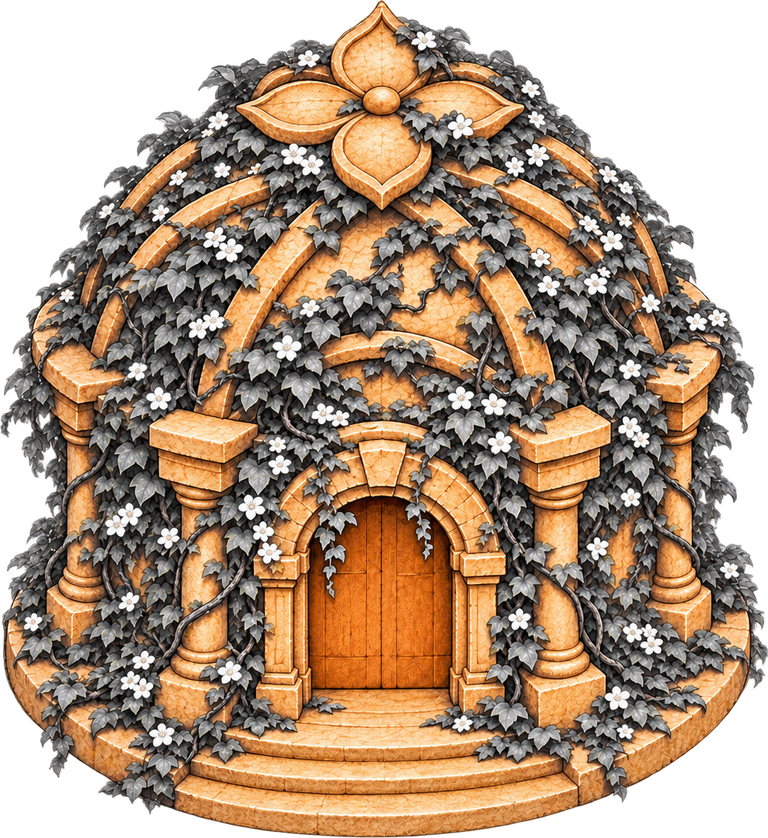
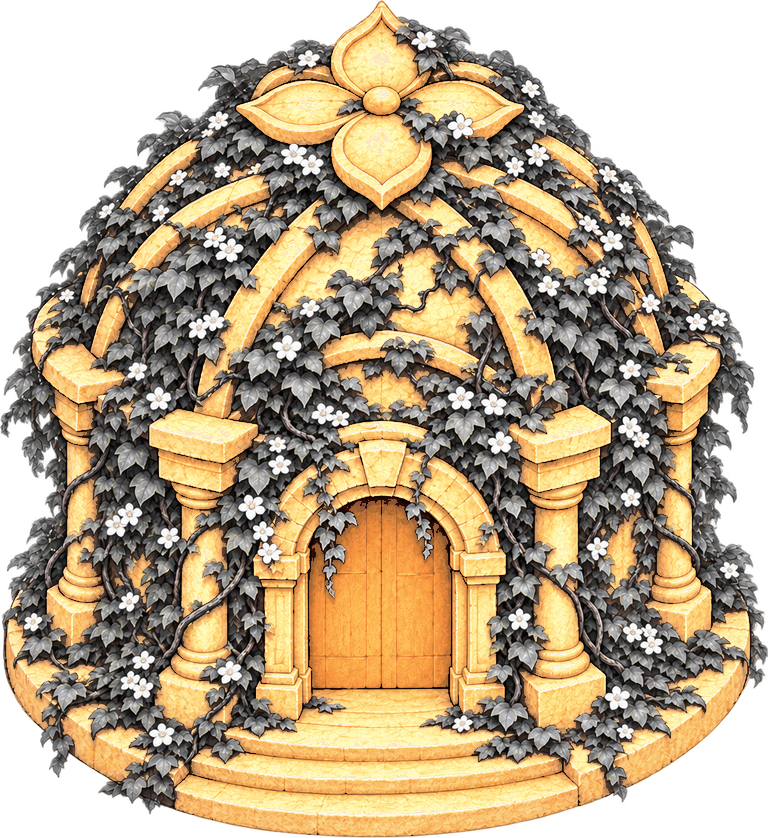
Palace colour consistency: grade the overhead + compound buildings to the palace's ivory family
The founder's plates and plan sit in a pale ivory family (measured
mean ~(228,183,131)); the GPT overhead art and the compound
buildings stood saturated orange against them. All graded by Lab
transfer toward the plates' own statistics:
- overhead shell (stone graded, stained glass protected by hue mask)
- the three domed rooms (their size drift removed as well)
- the floor paving (deepened into the family)
- the nine compound building masters: graded ONLY on the tint's
  stone class (warmth > 52) with a per-pixel warmth floor, so the
  ivy tint key (palaceTint warmth formula) is provably unchanged
  (max tint-weight delta 0.0 on all nine); the grey ivy the seat
  colours recolour at render is byte-identical.

Sky: the overhead backdrop was the full living-sky plate squashed
into a 1024x400 SVG (mountains, lake and pagoda compressed into the
band). It is now a true crop asset (the plate's own top 400 rows).

Palace below (founder, 2026-11-27): the architecture's lower
portion, graded to the same family, stands under the plan so the
dome sits on the palace instead of floating in the sky.

diff --git a/frontend/src/living-palace/palaceCanvas.tsx b/frontend/src/living-palace/palaceCanvas.tsx
@@ -83,6 +83,8 @@ import domedMediumImage from './assets/founder-domed-medium.png'
 import domedSmallImage from './assets/founder-domed-small.png'
 import shellImage from './assets/dome-shell-extracted-v2.png'
 import pavingImage from './assets/palace-floor-paving.png'
+import skyBandImage from './assets/palace-sky-band.png'
+import palaceBelowImage from './assets/palace-below.png'
 import { SEAT_COLORS, type SeatId } from '../council/colors'
 
 /* The prototype's material palette. */
@@ -1301,18 +1303,42 @@ export function OverheadScene({
         role="img"
         aria-label={`Inside ${model.project.title} from above — its tasks as domed rooms`}
       >
-        {/* 1 — the sky band, and nothing else: the top of the
-            living-sky plate, stretched over the frame (no
-            mountains, no strata, no lake ride this crop) */}
-        <svg
+        {/* 1 — the sky band, and nothing else: a true crop of
+            the living-sky plate's top (palace-sky-band.png,
+            the plate's own first 400 rows as its own asset —
+            no mountains, no strata, no lake can ride it, at
+            any aspect) */}
+        <img
           data-testid="palace-sky"
-          className="absolute inset-0 block h-full w-full"
-          viewBox="0 0 1024 400"
-          preserveAspectRatio="none"
+          src={skyBandImage}
+          alt=""
+          draggable={false}
+          className="absolute inset-0 block h-full w-full object-cover"
           aria-hidden
-        >
-          <image href={plateImage} x={0} y={0} width={1024} height={1536} preserveAspectRatio="none" />
-        </svg>
+        />
+
+        {/* 1b — the palace below (founder, 2026-11-27): the
+            architecture's lower portion standing under the
+            plan, so the dome sits on the palace instead of
+            floating in the sky. Its drum flanks the plan's
+            lower sides; its stepped podium lands at the
+            frame's bottom; the shell's front wall, drawn
+            last, covers its top. Colour-graded to the same
+            palace family as the shell and rooms. */}
+        <img
+          data-testid="palace-below"
+          src={palaceBelowImage}
+          alt=""
+          draggable={false}
+          className="pointer-events-none absolute block"
+          style={{
+            left: 0,
+            top: ohPctY(1153),
+            width: ohPctX(OVERHEAD_FRAME_W),
+            height: ohPctY(737),
+          }}
+          aria-hidden
+        />
 
         {/* 2 — the shell's back half, above the floor's centre
             line, its floor opening cut away */}
